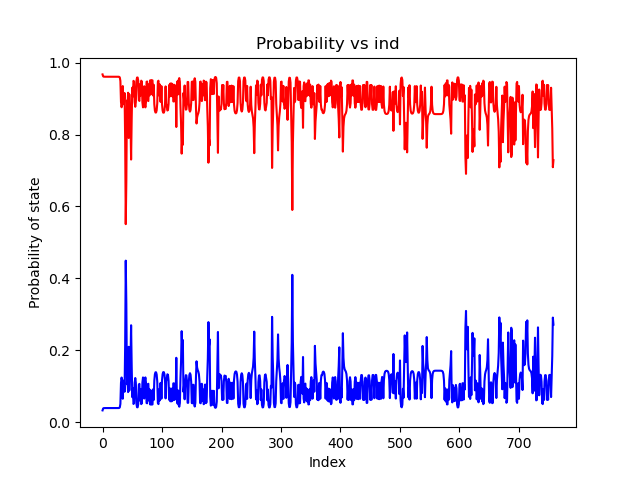
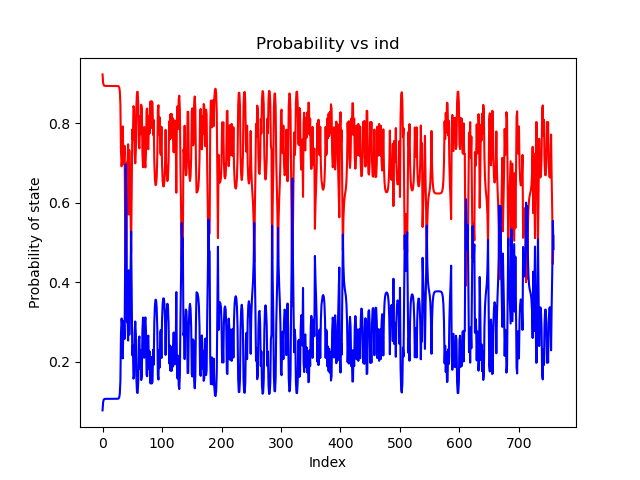
MI?

diff --git a/parameters.py b/parameters.py
@@ -20,6 +20,7 @@ from numpy import log1p
 from numpy import exp
 from scipy.special import logsumexp
 from scipy.optimize import minimize
+from scipy.interpolate import make_interp_spline, BSpline
 from tree import read_data, Node
 import matplotlib.pyplot as plt
 
@@ -204,7 +205,7 @@ def optimize(seqlen, trees, nstates=2):
     return np.exp(i), np.exp(t)
 
 
-def saveplot(probs, factor):
+def saveplot(probs, factor, smooth=False):
     """ Helper function to save plot of log likelihoods over iterations to file for
         visualization.
     Arguments:
@@ -217,8 +218,19 @@ def saveplot(probs, factor):
     plt.xlabel("Index")
     plt.ylabel("Probability of state")
     n, m = probs.shape
-    plt.plot(range(m), probs[0, :], 'r-')
-    plt.plot(range(m), probs[1, :], 'b-')
+    if smooth:
+
+        xnew = np.linspace(0, m ,300)
+        spl_cons = make_interp_spline(range(m), probs[0, :], k=3)
+        cons_smooth = spl_cons(xnew)
+        spl_ncons = make_interp_spline(range(m), probs[1, :], k=3)
+        ncons_smooth = spl_ncons(xnew)
+
+        plt.plot(xnew, cons_smooth, 'r-')
+        plt.plot(xnew, ncons_smooth, 'b-')
+    else:
+        plt.plot(range(m), probs[0, :], 'r-')
+        plt.plot(range(m), probs[1, :], 'b-')
     plt.savefig("phylohmm%.2f.png" % factor)
 
 
@@ -232,7 +244,7 @@ def main():
     parser.add_argument('-f', action="store", dest="f", type=str, default='apoe.fa')
     # parser.add_argument('-mu', action="store", dest="mu", type=float, required=True)
     parser.add_argument('-c', action='store', dest='c', type=str, default=primates)
-    parser.add_argument('-mul', action='store', dest='mul', type=float, default=10.0)
+    parser.add_argument('-mul', action='store', dest='mul', type=float, default=4.0)
     parser.add_argument('-nc', action='store', dest='nc', type=str, default=None)
 
     args = parser.parse_args()

diff --git a/tree.py b/tree.py
@@ -152,7 +152,10 @@ class Node:
         bases = 'ACGT'
         if self.is_leaf():
             c = data[self.name][ind]
-            self.probs = [int(c == a) for a in bases]
+            if c == '-':
+                self.probs = [1 for _ in bases]
+            else:
+                self.probs = [int(c == a) for a in bases]
             fel_probs[ind] = np.log(0.25 * np.sum(self.probs))
             return
 
@@ -276,3 +279,16 @@ class Node:
             temp = np.zeros((m, m, n, n))
             self.E_at_ind(i, [], self.data, temp)
             self.E_abij += temp
+
+    def L_local(self, t, i, j):
+        """
+        Calculate l local of (i, j, t) in T using precomputed E matrix
+        :return: L local(i, j, t) according to formula in paper
+        """
+        bases = 'ACGT'
+        num_b = len(bases)
+        out = 0
+        for a in range(num_b):
+            for b in range(num_b):
+                out += self.E_abij[a, b, i, j] * (np.log(self.jcm(bases[a], bases[b], t) - np.log(0.25)))
+        return out

diff --git a/test.py b/test.py
@@ -1,6 +1,7 @@
 """ Basic test cases for the files """
 from tree import Node, read_data
 import numpy as np
+from scipy.optimize import minimize
 
 s1 = "(((One:0.200000,Two:0.300000):0.300000,(Three:0.500000," \
      "Four:0.300000):0.200000):0.300000,Five:0.700000):0.000000;"
@@ -44,6 +45,14 @@ d_prim, l_prim = read_data("Data/H1-1/Data_total.txt")
 t_prim = Node.from_str(primates2)
 # d_prim, l_prim = read_data("Data/HI1-Compiled.txt")
 t_prim.setData(d_prim, l_prim)
+t_prim.E(l_prim)
+n = t_prim.size()
+Ll = np.zeros((n, n))
+for i in range(n):
+    for j in range(n):
+        res = minimize(t_prim.L_local, np.array([0.0]), args=(i, j), method="BFGS",
+                       options={"maxiter": 250, "disp": True})
+        Ll[i, j] = res.x[0]
 # branch_lengths = np.array(
 #     [[0.07517, 0.03059, 0.03161, 0.11761, 0.14289],
 #      [0.20843, 0.03397, 0.03497, 0.24952, 0.00000],
